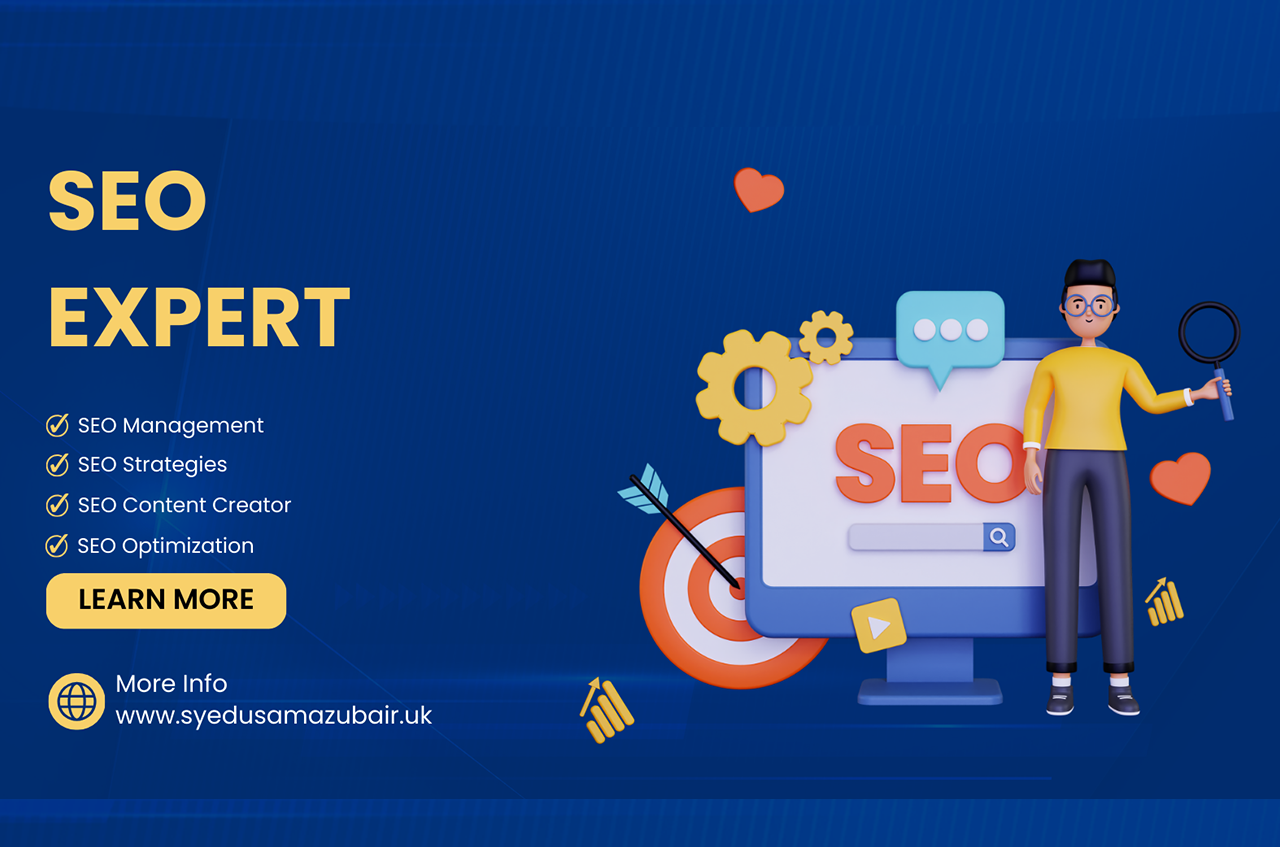
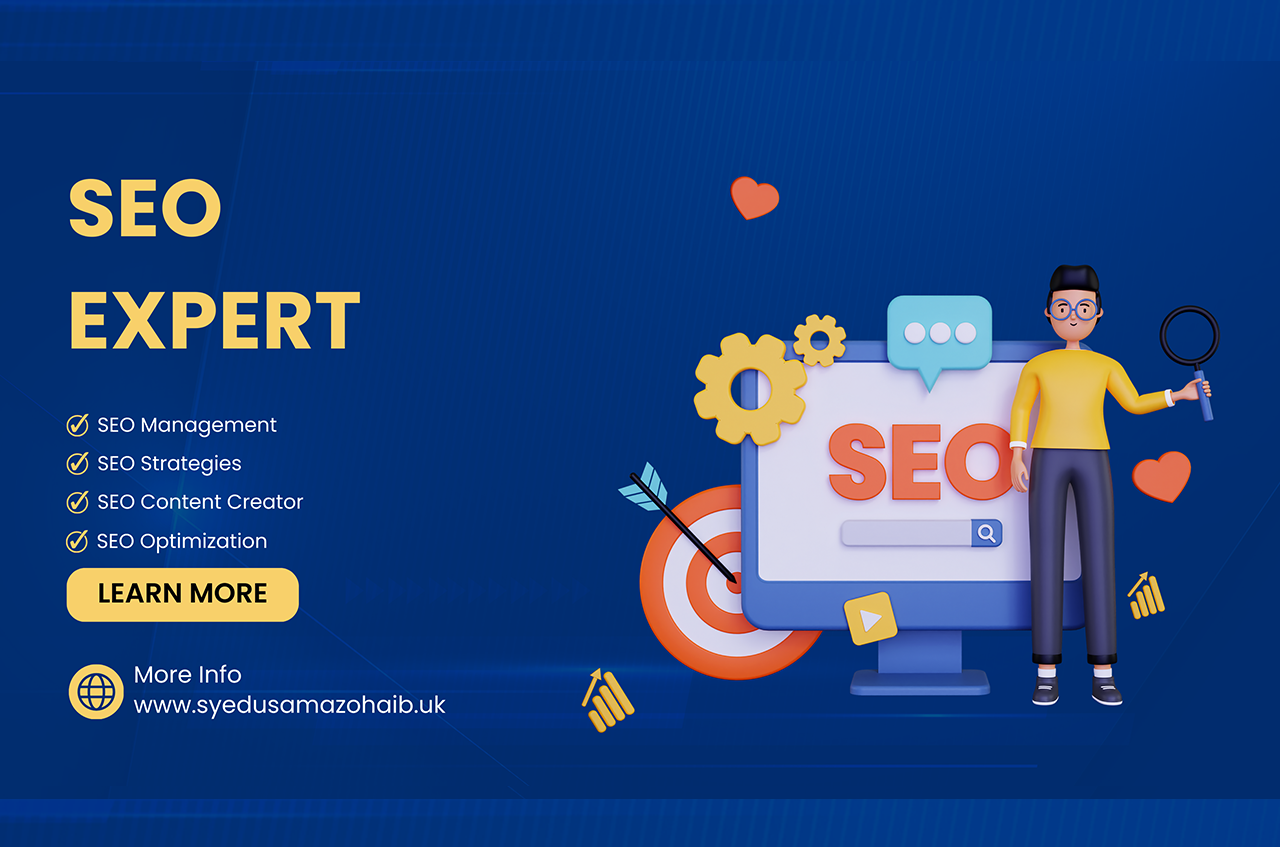
4

diff --git a/index.html b/index.html
@@ -2,7 +2,7 @@
 <html lang="en">
 
 <head>
-  <title>Syed Usama Zubair</title>
+  <title>Syed Usama Zohaib</title>
   <meta charset="utf-8">
   <meta name="viewport" content="width=device-width, initial-scale=1, shrink-to-fit=no">
 
@@ -105,7 +105,7 @@
       </nav>
       <!-- END nav -->
 
-      <div class="cover-v1 jarallax" style="background-image: url('images/Syed Usama Zubair (cover).png');" id="home-section">
+      <div class="cover-v1 jarallax" style="background-image: url('images/Syed Usama Zohaib (cover).png');" id="home-section">
         <div class="container">
           <div class="row align-items-center">
 
@@ -150,7 +150,7 @@
 
             <div id="posts" class="row gutter-isotope-item">
               <div class="item web branding col-sm-6 col-md-6 col-lg-4 isotope-mb-2">
-                <a class="portfolio-item  isotope-item gsap-reveal-img">
+                <div class="portfolio-item  isotope-item gsap-reveal-img">
                   <div class="overlay">
 
                     <div class="portfolio-item-content">
@@ -159,10 +159,10 @@
                     </div>
                   </div>
                   <img src="images/SEO Expert Poster.png" class="lazyload  img-fluid" alt="Images" />
-                </a>
+                </div>
               </div>
               <div class="item branding packaging illustration col-sm-6 col-md-6 col-lg-4 isotope-mb-2 ">
-                <a class="portfolio-item   item-portrait isotope-item gsap-reveal-img" data-id="3">
+                <div class="portfolio-item   item-portrait isotope-item gsap-reveal-img" data-id="2">
                   <div class="overlay">
 
                     <div class="portfolio-item-content">
@@ -171,11 +171,11 @@
                     </div>
                   </div>
                   <img src="images/Graphic Design Poster.png" class="lazyload  img-fluid" alt="Images" />
-                </a>
+                </div>
               </div>
 
               <div class="item branding packaging col-sm-6 col-md-6 col-lg-4 isotope-mb-2">
-                <a class="portfolio-item isotope-item gsap-reveal-img  " data-id="4">
+                <div class="portfolio-item isotope-item gsap-reveal-img  " data-id="3">
                   <div class="overlay">
 
                     <div class="portfolio-item-content">
@@ -184,12 +184,12 @@
                     </div>
                   </div>
                   <img src="images/SEO Expert Poster.png" class="lazyload  img-fluid" alt="Images" />
-                </a>
+                </div>
               </div>
 
               <div class="item web packaging col-sm-6 col-md-6 col-lg-4 isotope-mb-2">
 
-                <a class="portfolio-item isotope-item gsap-reveal-img" data-fancybox="gallery" data-caption="Watch">
+                <div class="portfolio-item isotope-item gsap-reveal-img" data-id="4">
                   <div class="overlay">
 
                     <div class="portfolio-item-content">
@@ -198,13 +198,13 @@
                     </div>
                   </div>
                   <img src="images/SEO Expert.png" class="lazyload  img-fluid" alt="Images" />
-                </a>
+                </div>
 
               </div>
 
               <div class="item illustration packaging col-sm-6 col-md-6 col-lg-4 isotope-mb-2">
-                <a class="portfolio-item isotope-item gsap-reveal-img" data-fancybox="gallery"
-                  data-caption="Shoe Rebranding">
+                <div class="portfolio-item isotope-item gsap-reveal-img" data-id="5"
+                  data-caption="Shoe Rebranding"> 
                   <div class="overlay">
 
                     <div class="portfolio-item-content">
@@ -213,11 +213,11 @@
                     </div>
                   </div>
                   <img src="images/Graphic Poster.png" class="lazyload  img-fluid" alt="Images" />
-                </a>
+                </div>
               </div>
 
               <div class="item web branding col-sm-6 col-md-6 col-lg-4 isotope-mb-2">
-                <a class="portfolio-item   item-portrait isotope-item gsap-reveal-img" data-id="2">
+                <div class="portfolio-item   item-portrait isotope-item gsap-reveal-img" data-id="6">
                   <div class="overlay">
 
                     <div class="portfolio-item-content">
@@ -226,7 +226,33 @@
                     </div>
                   </div>
                   <img src="images/Poster Design.png" class="lazyload  img-fluid" alt="Images" />
-                </a>
+                </div>
+              </div>
+              <div class="item illustration packaging col-sm-6 col-md-6 col-lg-4 isotope-mb-2">
+                <div class="portfolio-item isotope-item gsap-reveal-img" data-id="7"
+                  data-caption="Shoe Rebranding"> 
+                  <div class="overlay">
+
+                    <div class="portfolio-item-content">
+                      <h3>Tech</h3>
+                      <p>Poster Design</p>
+                    </div>
+                  </div>
+                  <img src="images/Marketing Poster 1.png" class="lazyload  img-fluid" alt="Images" />
+                </div>
+              </div>
+              <div class="item illustration packaging col-sm-6 col-md-6 col-lg-4 isotope-mb-2">
+                <div class="portfolio-item isotope-item gsap-reveal-img" data-id="8"
+                  data-caption="Shoe Rebranding"> 
+                  <div class="overlay">
+
+                    <div class="portfolio-item-content">
+                      <h3>Marketing</h3>
+                      <p>Poster Design</p>
+                    </div>
+                  </div>
+                  <img src="images/Marketing Poster.png" class="lazyload  img-fluid" alt="Images" />
+                </div>
               </div>
 
           
@@ -292,7 +318,7 @@
           <div class="row mt-5 justify-content-between">
             <div class="col-lg-7 mb-5 mb-lg-0">
               <figure class="dotted-bg gsap-reveal-img ">
-                <img src="images/Syed Usama Zubair (about).png" alt="Image" class="img-fluid">
+                <img src="images/Syed Usama Zohaib (about).png" alt="Image" class="img-fluid">
               </figure>
             </div>
             <div class="col-lg-4 pr-lg-5">
